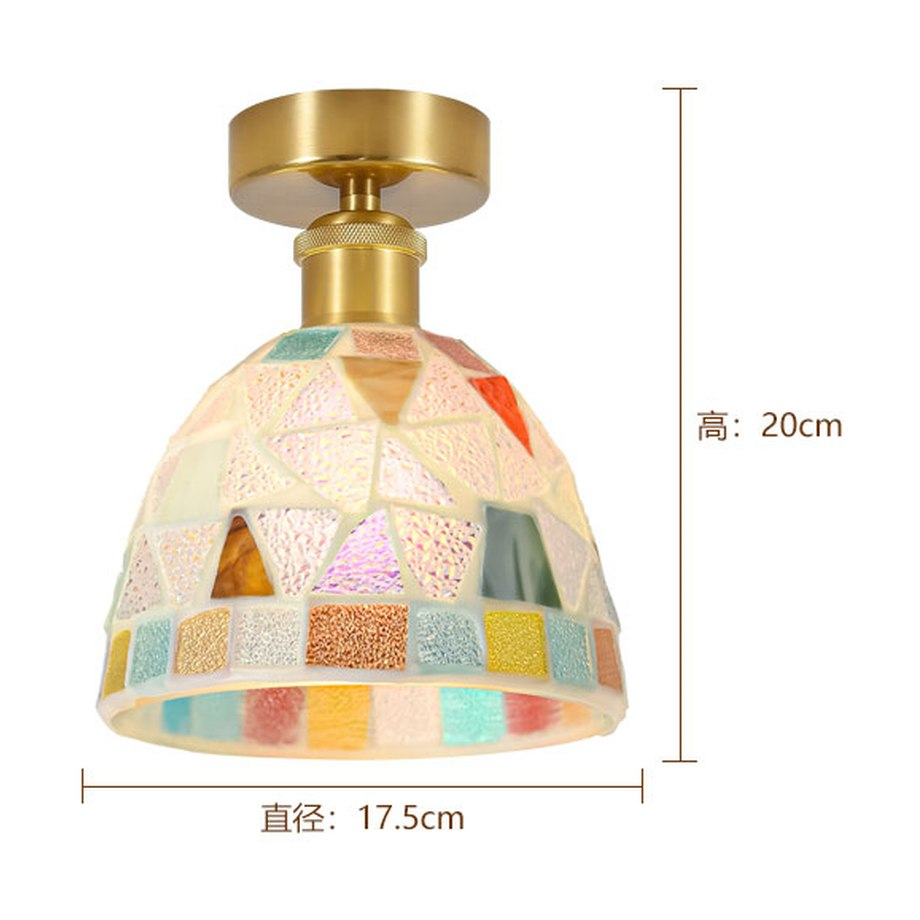
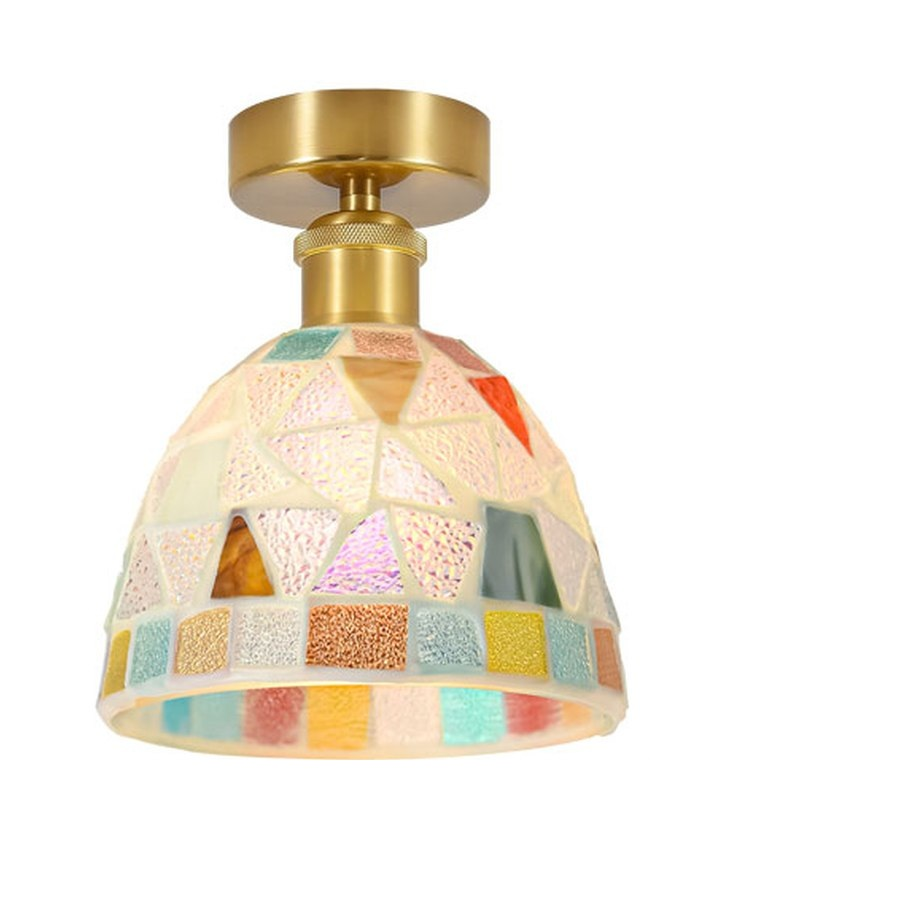
Clean remaining product image overlays

Changed region(s): [[0.7304, 0.0913, 0.7913, 0.8522], [0.0913, 0.8522, 0.7, 0.913], [0.8217, 0.4261, 0.913, 0.487]]

diff --git a/data.js b/data.js
@@ -2703,7 +2703,7 @@ window.PRODUCTS = [
     "material": "iron + glass",
     "light": "E27 x 1",
     "finish": "natural brass + walnut wood color",
-    "image": "./products/catalog-0158-3330-1.jpg",
+    "image": "./products/catalog-0158-3330-1.jpg?v=20260812-clean-overlays",
     "reason": "Selected from 2026 best seller supplier catalogs for Africa, Middle East and Asia wholesale coverage.",
     "scene": "Hotel corridor, villa stair wall, bedroom bedside wall.",
     "description": "Clean ceiling light for apartments, hotel rooms and residential projects, selected for repeatable project use and easy catalog matching."
@@ -2720,7 +2720,7 @@ window.PRODUCTS = [
     "material": "iron + glass",
     "light": "E27 x 1",
     "finish": "natural brass + walnut wood color",
-    "image": "./products/catalog-0159-3331-1.jpg",
+    "image": "./products/catalog-0159-3331-1.jpg?v=20260812-clean-overlays",
     "reason": "Selected from 2026 best seller supplier catalogs for Africa, Middle East and Asia wholesale coverage.",
     "scene": "Hotel corridor, villa stair wall, bedroom bedside wall.",
     "description": "Clean ceiling light for apartments, hotel rooms and residential projects, selected for repeatable project use and easy catalog matching."
@@ -2737,7 +2737,7 @@ window.PRODUCTS = [
     "material": "iron + glass",
     "light": "E27 x 1",
     "finish": "natural brass + walnut wood color",
-    "image": "./products/catalog-0160-3332-1.jpg",
+    "image": "./products/catalog-0160-3332-1.jpg?v=20260812-clean-overlays",
     "reason": "Selected from 2026 best seller supplier catalogs for Africa, Middle East and Asia wholesale coverage.",
     "scene": "Hotel corridor, villa stair wall, bedroom bedside wall.",
     "description": "Clean ceiling light for apartments, hotel rooms and residential projects, selected for repeatable project use and easy catalog matching."
@@ -2754,7 +2754,7 @@ window.PRODUCTS = [
     "material": "iron + glass",
     "light": "E27 x 1",
     "finish": "natural brass + walnut wood color",
-    "image": "./products/catalog-0161-3333-1.jpg",
+    "image": "./products/catalog-0161-3333-1.jpg?v=20260812-clean-overlays",
     "reason": "Selected from 2026 best seller supplier catalogs for Africa, Middle East and Asia wholesale coverage.",
     "scene": "Hotel corridor, villa stair wall, bedroom bedside wall.",
     "description": "Clean ceiling light for apartments, hotel rooms and residential projects, selected for repeatable project use and easy catalog matching."
@@ -2771,7 +2771,7 @@ window.PRODUCTS = [
     "material": "iron + glass",
     "light": "E27 x 1",
     "finish": "natural brass + walnut wood color",
-    "image": "./products/catalog-0162-3338-1.jpg",
+    "image": "./products/catalog-0162-3338-1.jpg?v=20260812-clean-overlays",
     "reason": "Selected from 2026 best seller supplier catalogs for Africa, Middle East and Asia wholesale coverage.",
     "scene": "Hotel corridor, villa stair wall, bedroom bedside wall.",
     "description": "Clean ceiling light for apartments, hotel rooms and residential projects, selected for repeatable project use and easy catalog matching."
@@ -8056,7 +8056,7 @@ window.PRODUCTS = [
     "material": "imitation marble + die-cast aluminum",
     "light": "E27 x 1",
     "finish": "sand black",
-    "image": "./products/catalog-0471-808small.jpg",
+    "image": "./products/catalog-0471-808small.jpg?v=20260812-clean-overlays",
     "reason": "Selected from 2026 best seller supplier catalogs for Africa, Middle East and Asia wholesale coverage.",
     "scene": "Villa entrance, outdoor wall, hotel exterior corridor.",
     "description": "Outdoor wall light for villa entrances, exterior corridors and hotel facade areas, selected for exterior decorative and guidance lighting."
@@ -8073,7 +8073,7 @@ window.PRODUCTS = [
     "material": "imitation marble + die-cast aluminum",
     "light": "E27 x 1",
     "finish": "sand black",
-    "image": "./products/catalog-0472-808large.jpg",
+    "image": "./products/catalog-0472-808large.jpg?v=20260812-clean-overlays",
     "reason": "Selected from 2026 best seller supplier catalogs for Africa, Middle East and Asia wholesale coverage.",
     "scene": "Villa entrance, outdoor wall, hotel exterior corridor.",
     "description": "Outdoor wall light for villa entrances, exterior corridors and hotel facade areas, selected for exterior decorative and guidance lighting."
@@ -10616,7 +10616,7 @@ window.PRODUCTS = [
     "market": "Wholesale decorative lighting buyers for Africa, Middle East and Asia projects",
     "size": "230 x 530",
     "material": "metal + glass",
-    "image": "./products/catalog-0636-table-lamp-3633-b-62.jpg",
+    "image": "./products/catalog-0636-table-lamp-3633-b-62.jpg?v=20260812-clean-overlays",
     "reason": "Added in the 1,000+catalog expansion from source Excel products with matched images and specifications.",
     "scene": "Hotel, villa, apartment, retail showroom and project lighting selection.",
     "description": "Table lamp for bedside, desk, console and hospitality use, suitable for room packages and soft decorative lighting schemes."

diff --git a/index.html b/index.html
@@ -421,7 +421,7 @@
     </div>
 
     <script src="./inquiry-config.js?v=20260804-inquiry-receiver-ready"></script>
-    <script src="./data.js?v=20260811-ch0068-clean"></script>
+    <script src="./data.js?v=20260812-clean-overlays"></script>
     <script src="./app.js?v=20260810-mobile-home-nav"></script>
   </body>
 </html>
